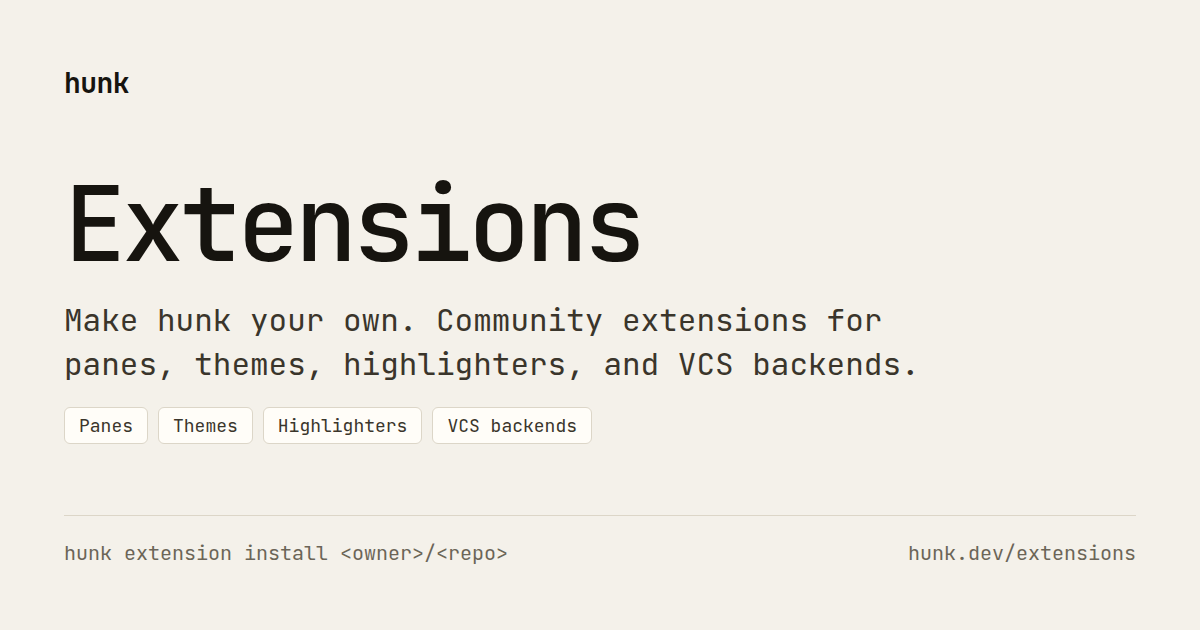
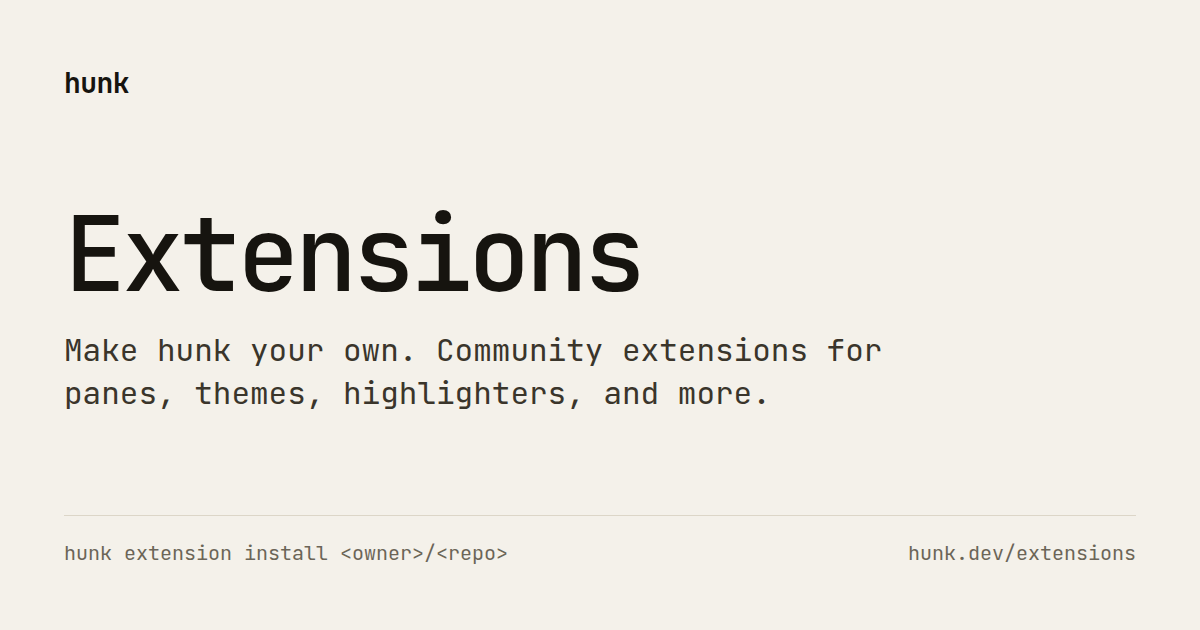
feat(website): publish the extension directory's own social card
The page shared as the site-wide screenshot, which says nothing about
what is on it. It now points at the card drawn in the previous commit,
replacing the site-wide image rather than sitting beside it, the way
changelog pages do.

Checking it is per route now: the link checker held every marketing
route to one hardcoded image, which a page with its own card cannot
satisfy. It maps each route to the image it owes instead, so the drift
worth catching — a page quietly falling back to the site-wide card while
still looking complete — fails the build. `extensions/og.png` joins the
required assets so losing the file fails too, and the smoke spec asserts
what the changelog's does: exactly one image tag, the right URL in both
og and twitter, and the PNG actually served.

Copy drops the category pills and ends on "and more", since naming four
surfaces on a card that outlives them undersells the rest.

Claude-Session: https://claude.ai/code/session_01EVBuvgPtv3n2WwGUKAjxzY

Changed region(s): [[0.0308, 0.2714, 0.7708, 0.6937]]

diff --git a/scripts/check-website-links.test.ts b/scripts/check-website-links.test.ts
@@ -34,9 +34,14 @@ function createWebsiteFixture() {
     join(dist, "index.html"),
     `<html><head><title>Hunk</title><meta name="description" content="Hunk"><link rel="canonical" href="https://hunk.dev/">${marketingHead}</head><body><main id="install"><a href="/docs/">Docs</a><img src="/og.png"></main></body></html>`,
   );
+  // The directory publishes its own card in place of the site-wide image.
+  const extensionsHead = marketingHead.replaceAll(
+    "https://hunk.dev/og.png",
+    "https://hunk.dev/extensions/og.png",
+  );
   writeFileSync(
     join(dist, "extensions", "index.html"),
-    `<html><head><title>Extensions</title><meta name="description" content="Extensions"><link rel="canonical" href="https://hunk.dev/extensions/">${marketingHead}</head><body><a href="/docs/">Docs</a><img src="/og.png"></body></html>`,
+    `<html><head><title>Extensions</title><meta name="description" content="Extensions"><link rel="canonical" href="https://hunk.dev/extensions/">${extensionsHead}</head><body><a href="/docs/">Docs</a><img src="/og.png"></body></html>`,
   );
   writeFileSync(
     join(dist, "docs", "index.html"),
@@ -67,14 +72,16 @@ describe("static website link checking", () => {
     expect(() => checkWebsiteBuild(dist)).toThrow("missing anchor #missing");
   });
 
-  test("holds the extension directory to the marketing shell's social metadata", () => {
+  test("requires the extension directory to publish its own social card", () => {
     const dist = createWebsiteFixture();
     const extensionsPath = join(dist, "extensions", "index.html");
     const html = readFileSync(extensionsPath, "utf8");
 
+    // Falling back to the site-wide image is the drift worth catching: the page
+    // still looks complete, and every share of it shows the wrong card.
     writeFileSync(
       extensionsPath,
-      html.replace('<meta property="og:image" content="https://hunk.dev/og.png">', ""),
+      html.replaceAll("https://hunk.dev/extensions/og.png", "https://hunk.dev/og.png"),
     );
     expect(() => checkWebsiteBuild(dist)).toThrow("missing head metadata");
   });

diff --git a/scripts/check-website-links.ts b/scripts/check-website-links.ts
@@ -15,15 +15,24 @@ const DOCS_HEAD_TAGS = [
 const MARKETING_HEAD_TAGS = [
   '<link rel="icon" href="/icon.png"',
   '<meta property="og:type" content="website"',
-  '<meta property="og:image" content="https://hunk.dev/og.png"',
   '<meta name="twitter:card" content="summary_large_image"',
-  '<meta name="twitter:image" content="https://hunk.dev/og.png"',
 ] as const;
+/**
+ * Social image each marketing-shell route publishes.
+ *
+ * A route with a card of its own replaces the site-wide image rather than
+ * sitting beside it, so the pair is checked per route instead of globally.
+ */
+const MARKETING_SOCIAL_IMAGES: Record<string, string> = {
+  "index.html": "https://hunk.dev/og.png",
+  "extensions/index.html": "https://hunk.dev/extensions/og.png",
+};
 /** Public files every build must ship; the link-check test builds its fixture from this. */
 export const REQUIRED_ASSETS = [
   "apple-icon.png",
   "favicon.svg",
   "icon.png",
+  "extensions/og.png",
   "modem-light.svg",
   "og.png",
   "shot-catppuccin-mocha.webp",
@@ -75,12 +84,16 @@ function canonicalUrlForOutput(label: string) {
   return `${CANONICAL_ORIGIN}/${label.replace(/index\.html$/, "")}`;
 }
 
-/** Routes rendered in the marketing shell rather than by Starlight. */
-const MARKETING_ROUTES = ["index.html", "extensions/index.html"] as const;
-
 /** Return metadata required for one canonical page type. */
-function requiredHeadTags(label: string) {
-  if ((MARKETING_ROUTES as readonly string[]).includes(label)) return MARKETING_HEAD_TAGS;
+function requiredHeadTags(label: string): readonly string[] {
+  const socialImage = MARKETING_SOCIAL_IMAGES[label];
+  if (socialImage) {
+    return [
+      ...MARKETING_HEAD_TAGS,
+      `<meta property="og:image" content="${socialImage}"`,
+      `<meta name="twitter:image" content="${socialImage}"`,
+    ];
+  }
   if (label.startsWith("docs/")) return DOCS_HEAD_TAGS;
   return [];
 }

diff --git a/website/tests/extensions-smoke.spec.ts b/website/tests/extensions-smoke.spec.ts
@@ -54,6 +54,26 @@ test("sorting reorders the same cards without dropping any", async ({ page }) =>
   expect(names).toEqual([...names].sort((a, b) => a.localeCompare(b)));
 });
 
+test("the directory carries its own social card", async ({ page, request }) => {
+  await page.goto("/extensions/");
+  const image = page.locator('meta[property="og:image"]');
+  // Exactly one: the page's card must replace the site-wide image, not sit beside it.
+  await expect(image).toHaveCount(1);
+  await expect(image).toHaveAttribute("content", "https://hunk.dev/extensions/og.png");
+  await expect(page.locator('meta[name="twitter:image"]')).toHaveAttribute(
+    "content",
+    "https://hunk.dev/extensions/og.png",
+  );
+  await expect(page.locator('meta[property="og:image:alt"]')).toHaveAttribute(
+    "content",
+    /^Hunk extensions/,
+  );
+
+  const response = await request.get("/extensions/og.png");
+  expect(response.ok()).toBe(true);
+  expect(response.headers()["content-type"]).toContain("image/png");
+});
+
 test("the directory is reachable from the marketing navigation on desktop", async ({
   page,
 }, testInfo) => {

diff --git a/website/scripts/generate-og.ts b/website/scripts/generate-og.ts
@@ -70,10 +70,9 @@ const PAGE_CARDS: CardTarget[] = [
       slug: "extensions",
       title: "Extensions",
       tagline:
-        "Make hunk your own. Community extensions for panes, themes, highlighters, and VCS backends.",
-      chips: ["Panes", "Themes", "Highlighters", "VCS backends"],
+        "Make hunk your own. Community extensions for panes, themes, highlighters, and more.",
       meta: "hunk extension install <owner>/<repo>",
-      alt: "Hunk extensions: community extensions for panes, themes, highlighters, and VCS backends.",
+      alt: "Hunk extensions: community extensions for panes, themes, highlighters, and more.",
     },
     footer: "hunk.dev/extensions",
     outputFile: join(websiteDir, "public", "extensions", "og.png"),
